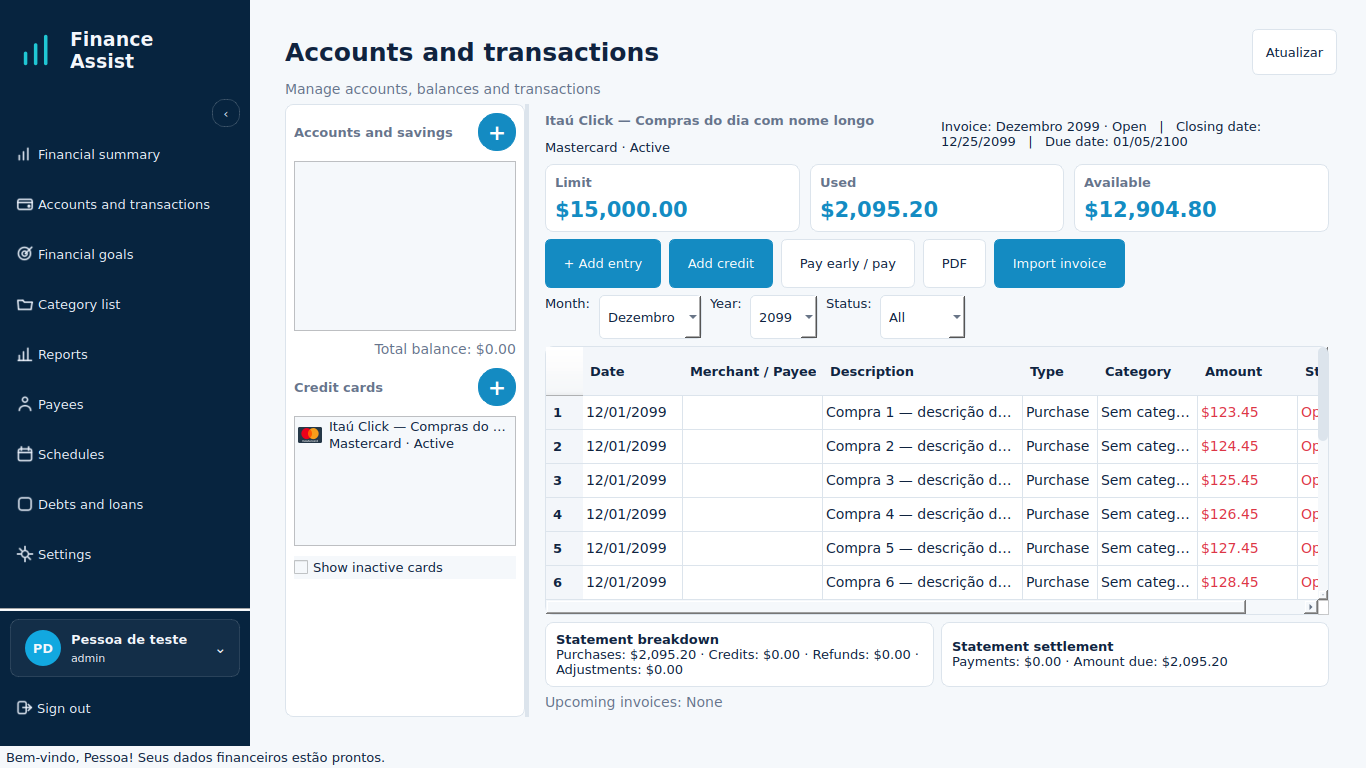
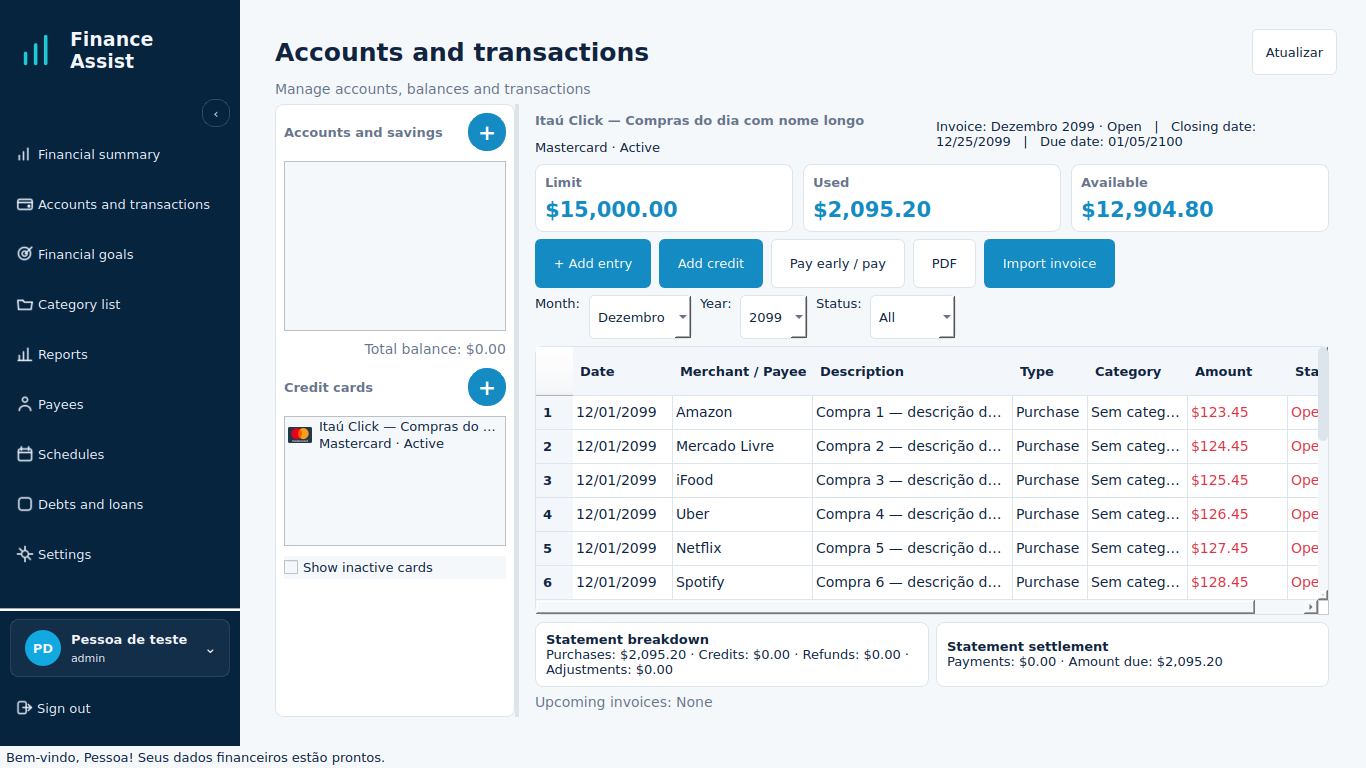
Carrega favorecido no painel com escopo de usuário e valida consulta real

diff --git a/tests/integration/test_fatura_modernizada.py b/tests/integration/test_fatura_modernizada.py
@@ -139,3 +139,28 @@ def test_exportacoes_pdf_possuem_titulo_tabela_total_e_multiplas_paginas(tmp_pat
     assert "Extrato da Principal" in _texto_pdf(statement)
     assert "Resultado do período" in _texto_pdf(statement) and "Movimento 74" in _texto_pdf(statement)
     service.lancamento_model.close(); db.close()
+
+
+def test_painel_carrega_favorecido_real_sem_alterar_lancamentos(tmp_path, monkeypatch):
+    db, card, _ = _cenario(tmp_path, monkeypatch)
+    favorecido = db.execute_insert(
+        "INSERT INTO favorecido (Nome, Tipo, ID_Usuario) VALUES ('Comércio de teste', 'PJ', 1)"
+    )
+    service = FaturaService(str(tmp_path / 'fatura.db'))
+    for index, payee in enumerate((favorecido, None)):
+        service.registrar_despesa_cartao({
+            'ID_Usuario': 1, 'ID_Cartao': card, 'Descricao': f'Compra {index}',
+            'Valor': 80, 'Data': '2099-12-05', 'Num_Parcelas': 1,
+            'ID_Favorecido': payee,
+        })
+    before = db.fetch_all('SELECT * FROM lancamentos ORDER BY ID_Lancamento')
+    app = QApplication.instance() or QApplication([])
+    view = PainelFatura()
+    view.set_competencia(12, 2099)
+    view.set_cartao(FaturaController().buscar_cartao_por_id(card))
+    assert view.table.rowCount() == 2
+    assert view.table.item(0, 1).text() == 'Comércio de teste'
+    assert view.table.item(1, 1).text() == ''
+    assert db.fetch_all('SELECT * FROM lancamentos ORDER BY ID_Lancamento') == before
+    assert service.get_painel_cartao(card, 12, 2099, 1)['fatura']['compras'] == 160
+    view.close(); app.processEvents(); db.close()

diff --git a/models/lancamento_model.py b/models/lancamento_model.py
@@ -442,11 +442,14 @@ class LancamentoModel(Database):
     def get_lancamentos_por_cartao(self, id_cartao, id_usuario):
 
         sql = """
-            SELECT *
-            FROM lancamentos
-            WHERE ID_Cartao = ?
-              AND ID_Usuario = ?
-            ORDER BY Data
+            SELECT l.*, f.Nome AS Favorecido
+            FROM lancamentos l
+            LEFT JOIN favorecido f
+                ON f.ID_Favorecido = l.ID_Favorecido
+               AND f.ID_Usuario = l.ID_Usuario
+            WHERE l.ID_Cartao = ?
+              AND l.ID_Usuario = ?
+            ORDER BY l.Data
         """
 
         return self.fetch_all(sql, (id_cartao, id_usuario))

diff --git a/docs/PAINEL_FATURA_PUBLICACAO.md b/docs/PAINEL_FATURA_PUBLICACAO.md
@@ -12,7 +12,7 @@ A versão permanece **2.1.0-test.17**, Debian **2.1.0~test17**.
   fechamento e vencimento retornados pelo serviço existente.
 - Indicadores Limite/Usado/Disponível e ações existentes preservados.
 - Tabela: Data, Estabelecimento/Favorecido, Descrição, Tipo, Categoria, Valor,
-  Status. Favorecido utiliza o JOIN existente; ausente permanece vazio.
+  Status. Favorecido utiliza LEFT JOIN por ID e usuário na consulta do painel; ausente permanece vazio, sem remover linhas ou alterar valores.
 - Descrição recebe a maior largura inicial e absorve o espaço adicional da janela até o usuário ajustar as colunas. Colunas podem ser redimensionadas
   manualmente; o ajuste não é sobrescrito ao redimensionar a janela. Rolagem
   horizontal mantém todas as colunas acessíveis. Elipse e tooltip preservam
@@ -27,15 +27,15 @@ compras, créditos e importações continuam bloqueados pelas regras existentes.
 
 ## Validação e distribuição
 
-Regressão completa local: **461 testes aprovados**, zero falhas/erros/ignorados,
-15 avisos de depreciação de dependências, em 117,36 s.
+Regressão completa local: **462 testes aprovados**, zero falhas/erros/ignorados,
+15 avisos de depreciação de dependências, em 123,27 s.
 
 ```bash
 TMPDIR=/dev/shm/finance-assist-invoice-tests QT_QPA_PLATFORM=offscreen \
   .venv-finance-assist/bin/python -m pytest -q tests
 ```
 
-Rodada focada final: **100 testes aprovados**, um aviso de depreciação, em 11,20 s.
+Rodada focada final: **101 testes aprovados**, um aviso de depreciação, em 10,10 s.
 
 Inclui cálculos e ciclos de fatura, atomicidade, pagamentos parciais, cartão
 ativo/inativo, integridade, backup, catálogos offline e interface. Os nove novos
@@ -51,8 +51,8 @@ Capturas sintéticas da janela completa, tema Primavera/Qt offscreen:
 - [1366×768 ES](./evidencias/painel-fatura-homologado/painel-1366x768-es.png)
 - [Medidas dos nove cenários](./evidencias/painel-fatura-homologado/medidas.json)
 
-Em PT: viewport da tabela de 649×178 em 1280×720, 735×204 em 1366×768 e
-1299×545 em 1920×1080. Rolagem horizontal disponível sem ocultar colunas;
+Em PT: viewport da tabela de 659×178 em 1280×720, 745×226 em 1366×768 e
+1309×545 em 1920×1080. Rolagem horizontal disponível sem ocultar colunas;
 resumo e ações acessíveis. As capturas comprovam estes cenários no Linux;
 os builds nativos validam inicialização das telas em cada plataforma.
 
